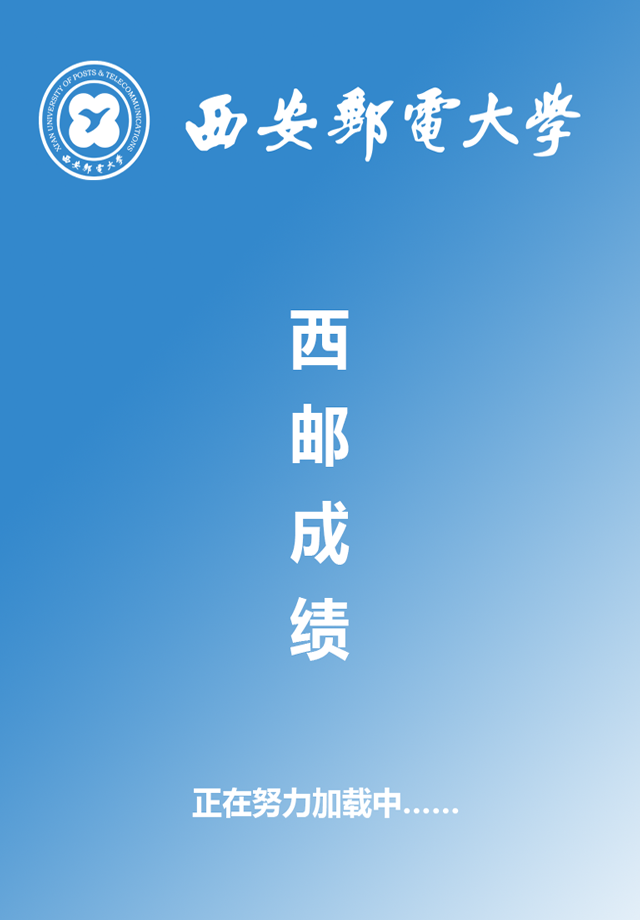
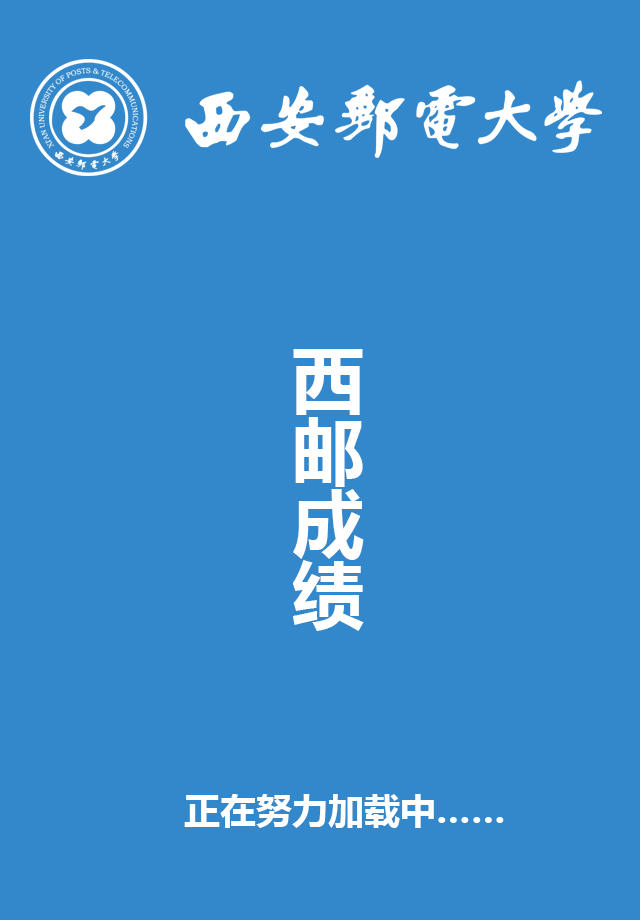
UP

diff --git a/index.html b/index.html
@@ -17,12 +17,15 @@
     <title>西邮成绩</title>
     <meta name="description" content="成绩，西邮成绩，西邮成绩榜，西邮3G实验室，西安邮电大学">
     <meta name="viewport" content="width=device-width, initial-scale=1">
+    <meta name="viewport" content="initial-scale=1.0">
     <meta name="apple-mobile-web-app-capable" content="yes">
     <meta name="apple-mobile-web-app-status-bar-style" content="black"/>
     <link rel="apple-touch-startup-image" sizes="640x920" href="img/loading-640x920.png"
           media="screen and (max-device-width: 480px) and (-webkit-min-device-pixel-ratio: 2)">
     <link rel="apple-touch-startup-image" sizes="768x1004" href="img/loading-768x1004.png"
           media="screen and (min-device-width: 481px) and (max-device-width: 1024px) and (orientation:landscape)">
+    <link rel="apple-touch-startup-image" sizes="640x1096" href="img/loading-640x1096.png"
+          media="screen and (max-device-width: 480px) and (-webkit-min-device-pixel-ratio: 2)">
     <link rel="apple-touch-icon-precomposed" sizes="114X114" href="img/iphone.png">
     <link rel="apple-touch-icon-precomposed" href="img/android.png">
 
